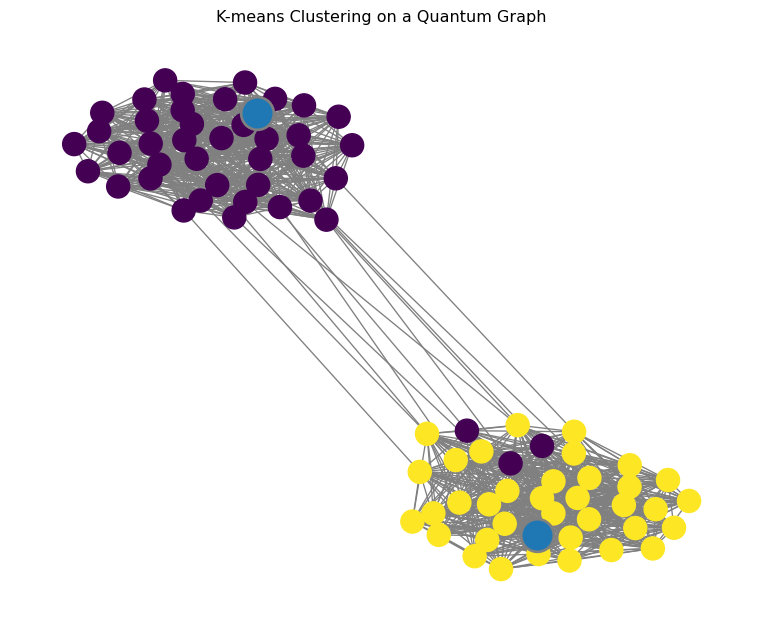
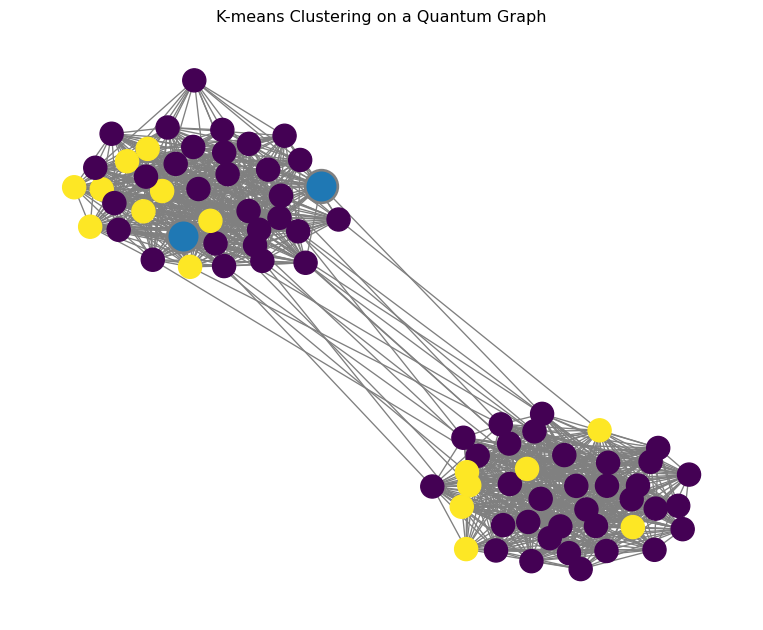
docs: re-render on the corrected code (0.8.0 prep)
Full fresh re-render of the executable documents against the released
package (freeze cache cleared, seed 123 for determinism). Only the pages
whose executed outputs depend on the RNG-normalisation and epsilon-net
fixes change: quickstart cluster centres, SBM edge counts in generators,
epsilon-net radii/edge counts, and the parallel-execution energies. All
are legitimate refreshed outputs; README and benchmarks re-render
identically. No source or prose changes.

Changed region(s): [[0.0603, 0.0905, 0.9345, 0.9349]]

diff --git a/docs/parallel-execution.md b/docs/parallel-execution.md
@@ -100,10 +100,10 @@ print(f"Mean energy: {np.mean(energies):.4f}")
 print(f"Std energy: {np.std(energies):.4f}")
 ```
 
-    Best energy: 1.6800
-    Worst energy: 2.4400
-    Mean energy: 1.8987
-    Std energy: 0.1766
+    Best energy: 1.4100
+    Worst energy: 2.2017
+    Mean energy: 1.7092
+    Std energy: 0.2123
 
 ## Progress Monitoring
 
@@ -129,26 +129,26 @@ centers = run_parallel_with_callback(
 )
 ```
 
-    ✓ Run 8/20 completed - Energy: 1.8100 (seed=1880415768)
-    ✓ Run 1/20 completed - Energy: 1.8000 (seed=1495694099)
-    ✓ Run 7/20 completed - Energy: 1.7000 (seed=589881679)
-    ✓ Run 2/20 completed - Energy: 1.5100 (seed=183384938)
-    ✓ Run 5/20 completed - Energy: 1.8009 (seed=1494222352)
-    ✓ Run 3/20 completed - Energy: 2.0131 (seed=1680864592)
-    ✓ Run 4/20 completed - Energy: 2.2200 (seed=1690508300)
-    ✓ Run 11/20 completed - Energy: 1.9400 (seed=1754662378)
-    ✓ Run 6/20 completed - Energy: 1.2800 (seed=83158909)
-    ✓ Run 9/20 completed - Energy: 1.8509 (seed=1529584231)
-    ✓ Run 13/20 completed - Energy: 1.8000 (seed=1118367909)
-    ✓ Run 12/20 completed - Energy: 1.8905 (seed=1327791181)
-    ✓ Run 14/20 completed - Energy: 1.8800 (seed=526868701)
-    ✓ Run 15/20 completed - Energy: 2.0903 (seed=420427166)
-    ✓ Run 16/20 completed - Energy: 1.9100 (seed=96177084)
-    ✓ Run 10/20 completed - Energy: 1.7615 (seed=899972701)
-    ✓ Run 17/20 completed - Energy: 2.0200 (seed=121421773)
-    ✓ Run 18/20 completed - Energy: 2.1323 (seed=2047946061)
-    ✓ Run 19/20 completed - Energy: 1.5400 (seed=1455078363)
-    ✓ Run 20/20 completed - Energy: 1.8600 (seed=1842492945)
+    ✓ Run 2/20 completed - Energy: 2.0700 (seed=1725797332)
+    ✓ Run 6/20 completed - Energy: 1.6600 (seed=2126063927)
+    ✓ Run 5/20 completed - Energy: 1.7100 (seed=2082083474)
+    ✓ Run 7/20 completed - Energy: 1.7494 (seed=839783484)
+    ✓ Run 1/20 completed - Energy: 1.6572 (seed=1763201903)
+    ✓ Run 3/20 completed - Energy: 1.9341 (seed=1125302836)
+    ✓ Run 4/20 completed - Energy: 1.5459 (seed=1644288392)
+    ✓ Run 8/20 completed - Energy: 1.9503 (seed=875228736)
+    ✓ Run 10/20 completed - Energy: 1.8400 (seed=1221157960)
+    ✓ Run 9/20 completed - Energy: 2.0722 (seed=927673186)
+    ✓ Run 11/20 completed - Energy: 1.6296 (seed=639442356)
+    ✓ Run 12/20 completed - Energy: 2.0950 (seed=1906138083)
+    ✓ Run 13/20 completed - Energy: 1.9600 (seed=141895123)
+    ✓ Run 14/20 completed - Energy: 2.2679 (seed=518703919)
+    ✓ Run 15/20 completed - Energy: 1.5800 (seed=978136409)
+    ✓ Run 16/20 completed - Energy: 1.6500 (seed=1465165283)
+    ✓ Run 17/20 completed - Energy: 1.8400 (seed=1098769149)
+    ✓ Run 18/20 completed - Energy: 1.7100 (seed=107494062)
+    ✓ Run 19/20 completed - Energy: 1.5668 (seed=1621400038)
+    ✓ Run 20/20 completed - Energy: 1.3700 (seed=1759116548)
 
 The callback function receives three arguments:
 
@@ -267,12 +267,12 @@ print(f"\nFound optimal solution in {n_optimal}/100 runs ({n_optimal}%)")
 ```
 
     Energy statistics:
-      Min:    1.0933
-      Median: 1.4679
-      Max:    2.2933
-      Std:    0.2243
+      Min:    1.1800
+      Median: 1.5100
+      Max:    2.5400
+      Std:    0.2664
 
-    Found optimal solution in 1/100 runs (1%)
+    Found optimal solution in 2/100 runs (2%)
 
 ## API Reference
 

diff --git a/docs/generators.md b/docs/generators.md
@@ -67,7 +67,7 @@ sbm_graph = generate_sbm(
 print(f"SBM graph: {sbm_graph.number_of_nodes()} nodes, {sbm_graph.number_of_edges()} edges")
 ```
 
-    SBM graph: 100 nodes, 2103 edges
+    SBM graph: 100 nodes, 2094 edges
 
 The probability matrix `p[i][j]` controls the probability of edges
 between blocks `i` and `j`. High diagonal values (like 0.8 and 0.7
@@ -102,10 +102,10 @@ print(f"Short edges (~1.0): {sum(1 for l in edge_lengths if l < 2)}")
 print(f"Long edges (~4.0): {sum(1 for l in edge_lengths if l > 3)}")
 ```
 
-    Custom SBM: 100 nodes, 1977 edges
+    Custom SBM: 100 nodes, 1948 edges
     Edge lengths: min=1.0, max=4.0
-    Short edges (~1.0): 1720
-    Long edges (~4.0): 257
+    Short edges (~1.0): 1707
+    Long edges (~4.0): 241
 
 This is particularly useful when you want to model scenarios where
 inter-cluster distances are significantly larger than intra-cluster

diff --git a/docs/epsilon-net.md b/docs/epsilon-net.md
@@ -40,7 +40,7 @@ graph = approximate_geodesic_space(sphere, 500, net=FibonacciNet())
 print(f"{graph.number_of_nodes()} nodes, {graph.number_of_edges()} edges")
 ```
 
-    500 nodes, 3421 edges
+    500 nodes, 3021 edges
 
 The result is an ordinary `QuantumGraph` whose nodes sit on the sphere
 and whose edge lengths are geodesic distances. Everything
@@ -111,8 +111,8 @@ graph = build_epsilon_net_graph(sphere, net_points, ell=float(np.sqrt(eps)))
 print(f"{graph.number_of_edges()} edges within l(eps)")
 ```
 
-    covering radius eps = 0.149   connection radius sqrt(eps) = 0.387
-    1329 edges within l(eps)
+    covering radius eps = 0.143   connection radius sqrt(eps) = 0.379
+    1219 edges within l(eps)
 
 Refining the net (more points) shrinks $\varepsilon$, and the graph
 resolves finer structure on the manifold—at the cost of a larger graph

diff --git a/docs/quickstart.md b/docs/quickstart.md
@@ -86,8 +86,8 @@ for center in centers:
 ```
 
     Cluster centers (position in edge):
-    Center near node 65 [edge (65, 49), pos=0.000]
-    Center near node 3 [edge (3, 32), pos=0.000]
+    Center near node 62 [edge (62, 66), pos=0.000]
+    Center near node 47 [edge (47, 43), pos=0.000]
 
 ## 4. Visualize the Results
 